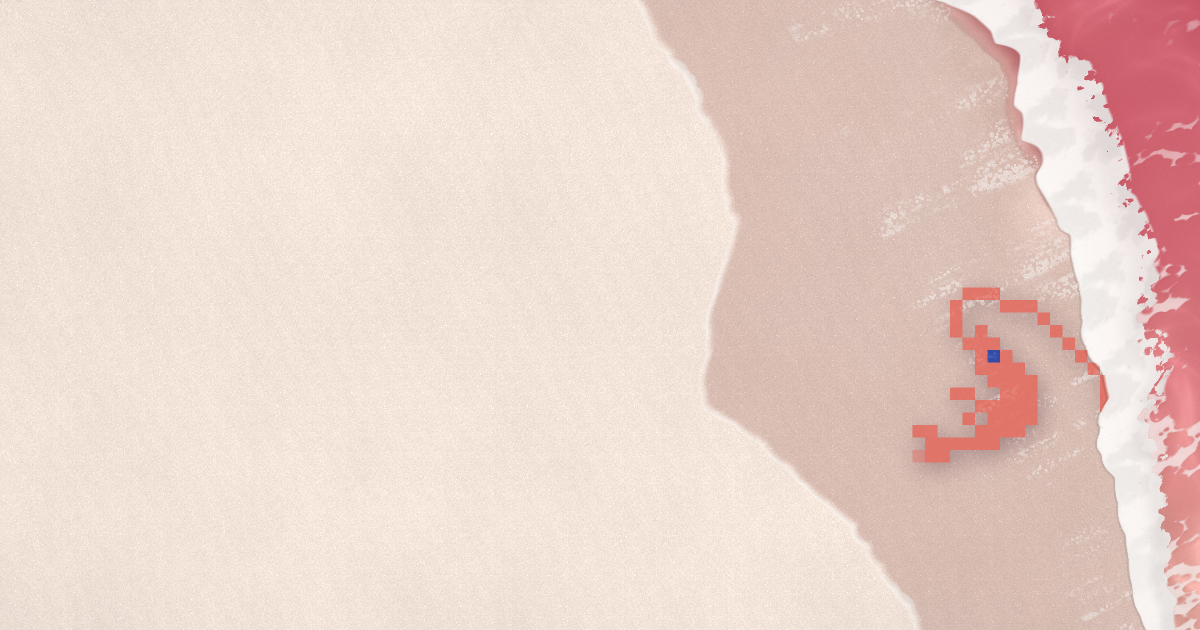
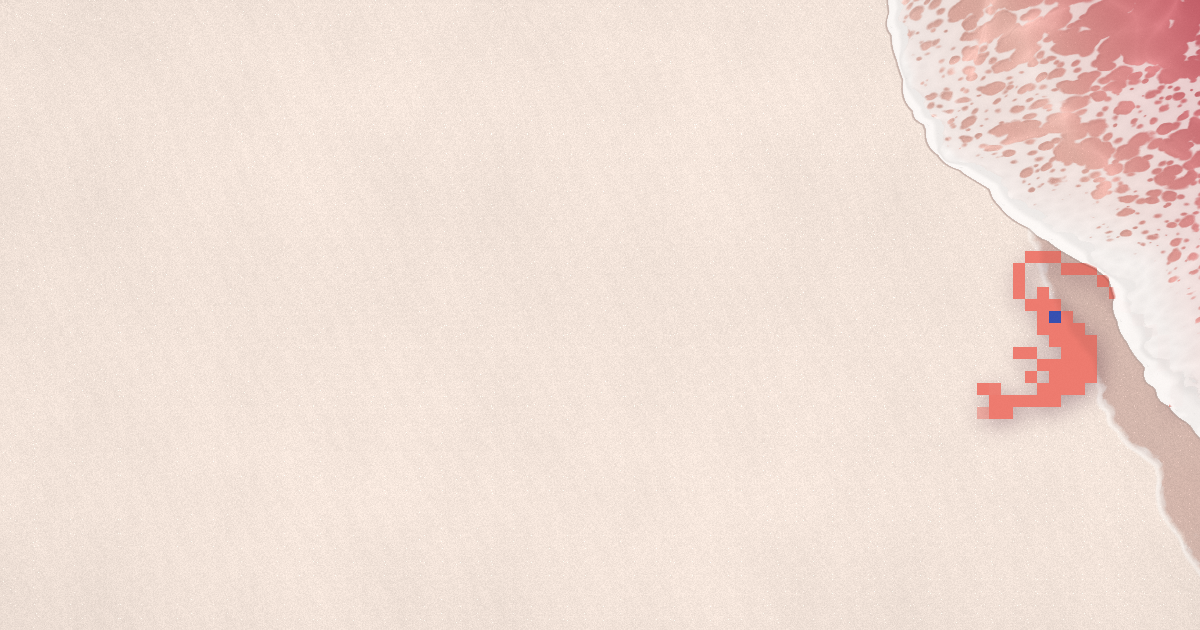
feat(kosui-me): OGP 画像の文字を中央の正方形に収め、はてなブックマークでも切れないようにする
はてなブックマークは og:image の中央を正方形に切り抜いて表示するため、
左寄せだったサイト名・日付・タイトルの左側が切れていた。

- 文字の左端と幅を、中央の正方形（630px）から余白 32px を引いた範囲にする
- 背景を撮り直し、海と海老を正方形の右外に寄せる（文字の下は乾いた砂になる）
- 背景の撮影スクリプトが、:root に移った海辺の配色を読めずに失敗していたのを直す

Claude-Session: https://claude.ai/code/session_016VJnwWxj7QgUi3iYrSxXm6

diff --git a/apps/kosui-me/scripts/generate-og-images.ts b/apps/kosui-me/scripts/generate-og-images.ts
@@ -35,6 +35,17 @@ const COLORS = {
 
 type FontWeight = 500 | 700;
 
+const WIDTH = 1200;
+const HEIGHT = 630;
+
+/**
+ * はてなブックマークは og:image の中央を正方形に切り抜いて表示する。
+ * 文字はすべて、中央の正方形（1 辺は画像の高さ）から余白を引いた幅に収める。
+ */
+const SQUARE_PADDING = 32;
+const TEXT_LEFT = (WIDTH - HEIGHT) / 2 + SQUARE_PADDING;
+const TEXT_WIDTH = HEIGHT - SQUARE_PADDING * 2;
+
 const FONT_FILE_NAMES: Record<FontWeight, string> = {
   500: 'NotoSansJP-Medium.ttf',
   700: 'NotoSansJP-Bold.ttf',
@@ -136,8 +147,8 @@ const createFrame = (shore: string, children: SatoriNode[]): SatoriNode => ({
   type: 'div',
   props: {
     style: {
-      width: '1200px',
-      height: '630px',
+      width: `${WIDTH}px`,
+      height: `${HEIGHT}px`,
       position: 'relative',
       display: 'flex',
       backgroundColor: COLORS.sand,
@@ -148,9 +159,9 @@ const createFrame = (shore: string, children: SatoriNode[]): SatoriNode => ({
         type: 'img',
         props: {
           src: shore,
-          width: 1200,
-          height: 630,
-          style: { position: 'absolute', top: 0, left: 0, width: '1200px', height: '630px' },
+          width: WIDTH,
+          height: HEIGHT,
+          style: { position: 'absolute', top: 0, left: 0, width: `${WIDTH}px`, height: `${HEIGHT}px` },
         },
       },
       ...children,
@@ -164,7 +175,7 @@ const createSiteName = (): SatoriNode => ({
     style: {
       position: 'absolute',
       top: '60px',
-      left: '64px',
+      left: `${TEXT_LEFT}px`,
       display: 'flex',
       fontSize: '28px',
       fontWeight: 500,
@@ -225,9 +236,9 @@ const createBodyBlock = (children: SatoriNode[]): SatoriNode => ({
   props: {
     style: {
       position: 'absolute',
-      left: '64px',
+      left: `${TEXT_LEFT}px`,
       bottom: '64px',
-      width: '620px',
+      width: `${TEXT_WIDTH}px`,
       display: 'flex',
       flexDirection: 'column',
       alignItems: 'flex-start',
@@ -240,7 +251,7 @@ const budouxParser = loadDefaultJapaneseParser();
 const graphemeSegmenter = new Intl.Segmenter('ja', { granularity: 'grapheme' });
 const ZERO_WIDTH_SPACE = String.fromCharCode(0x200b);
 const WORD_JOINER = String.fromCharCode(0x2060);
-const TITLE_BLOCK_WIDTH = 620;
+const TITLE_BLOCK_WIDTH = TEXT_WIDTH;
 const TITLE_LETTER_SPACING = 0.01;
 const LEADING_PUNCTUATION = /^[:;,.!?、。，．：；！？)）」』】]*\s*/;
 
@@ -414,8 +425,8 @@ type OgFont = { data: ArrayBuffer; weight: FontWeight };
 
 const generateImage = async (element: SatoriNode, fonts: OgFont[]): Promise<Buffer> => {
   const svg = await satori(element, {
-    width: 1200,
-    height: 630,
+    width: WIDTH,
+    height: HEIGHT,
     fonts: fonts.map(({ data, weight }) => ({
       name: 'Noto Sans JP',
       data,
@@ -432,7 +443,7 @@ const generateImage = async (element: SatoriNode, fonts: OgFont[]): Promise<Buff
 
   const resvg = new Resvg(svg, {
     background: 'rgba(0, 0, 0, 0)',
-    fitTo: { mode: 'width', value: 1200 },
+    fitTo: { mode: 'width', value: WIDTH },
   });
 
   const pngData = resvg.render();

diff --git a/apps/kosui-me/scripts/capture-og-shore.ts b/apps/kosui-me/scripts/capture-og-shore.ts
@@ -18,8 +18,8 @@ const esbuild = createRequire(require.resolve('tsx/package.json'))('esbuild') as
 
 const { values } = parseArgs({
   options: {
-    time: { type: 'string', default: '7.9' },
-    frame: { type: 'string', default: '900,250,250' },
+    time: { type: 'string', default: '28.4' },
+    frame: { type: 'string', default: '965,215,240' },
     out: { type: 'string', default: path.join(import.meta.dirname, 'og-assets', 'shore.png') },
   },
 });
@@ -34,9 +34,9 @@ const out = path.resolve(values.out ?? '');
 const readLightPalette = (): string => {
   const css = fs.readFileSync(globalCss, 'utf8');
   const background = css.match(/--color-bg:\s*([^;]+);/)?.[1];
-  const palette = css.match(/\.shore-palette\s*\{([^}]*)\}/)?.[1];
-  if (!background || !palette) throw new Error(`${globalCss} から .shore-palette を読めません`);
-  return `:root { --color-bg: ${background}; } .shore-palette { ${palette} }`;
+  const palette = css.match(/:root\s*\{([^}]*--shore-sand:[^}]*)\}/)?.[1];
+  if (!background || !palette) throw new Error(`${globalCss} から海辺の配色を読めません`);
+  return `:root { --color-bg: ${background}; ${palette} }`;
 };
 
 const bundle = async (): Promise<string> => {
